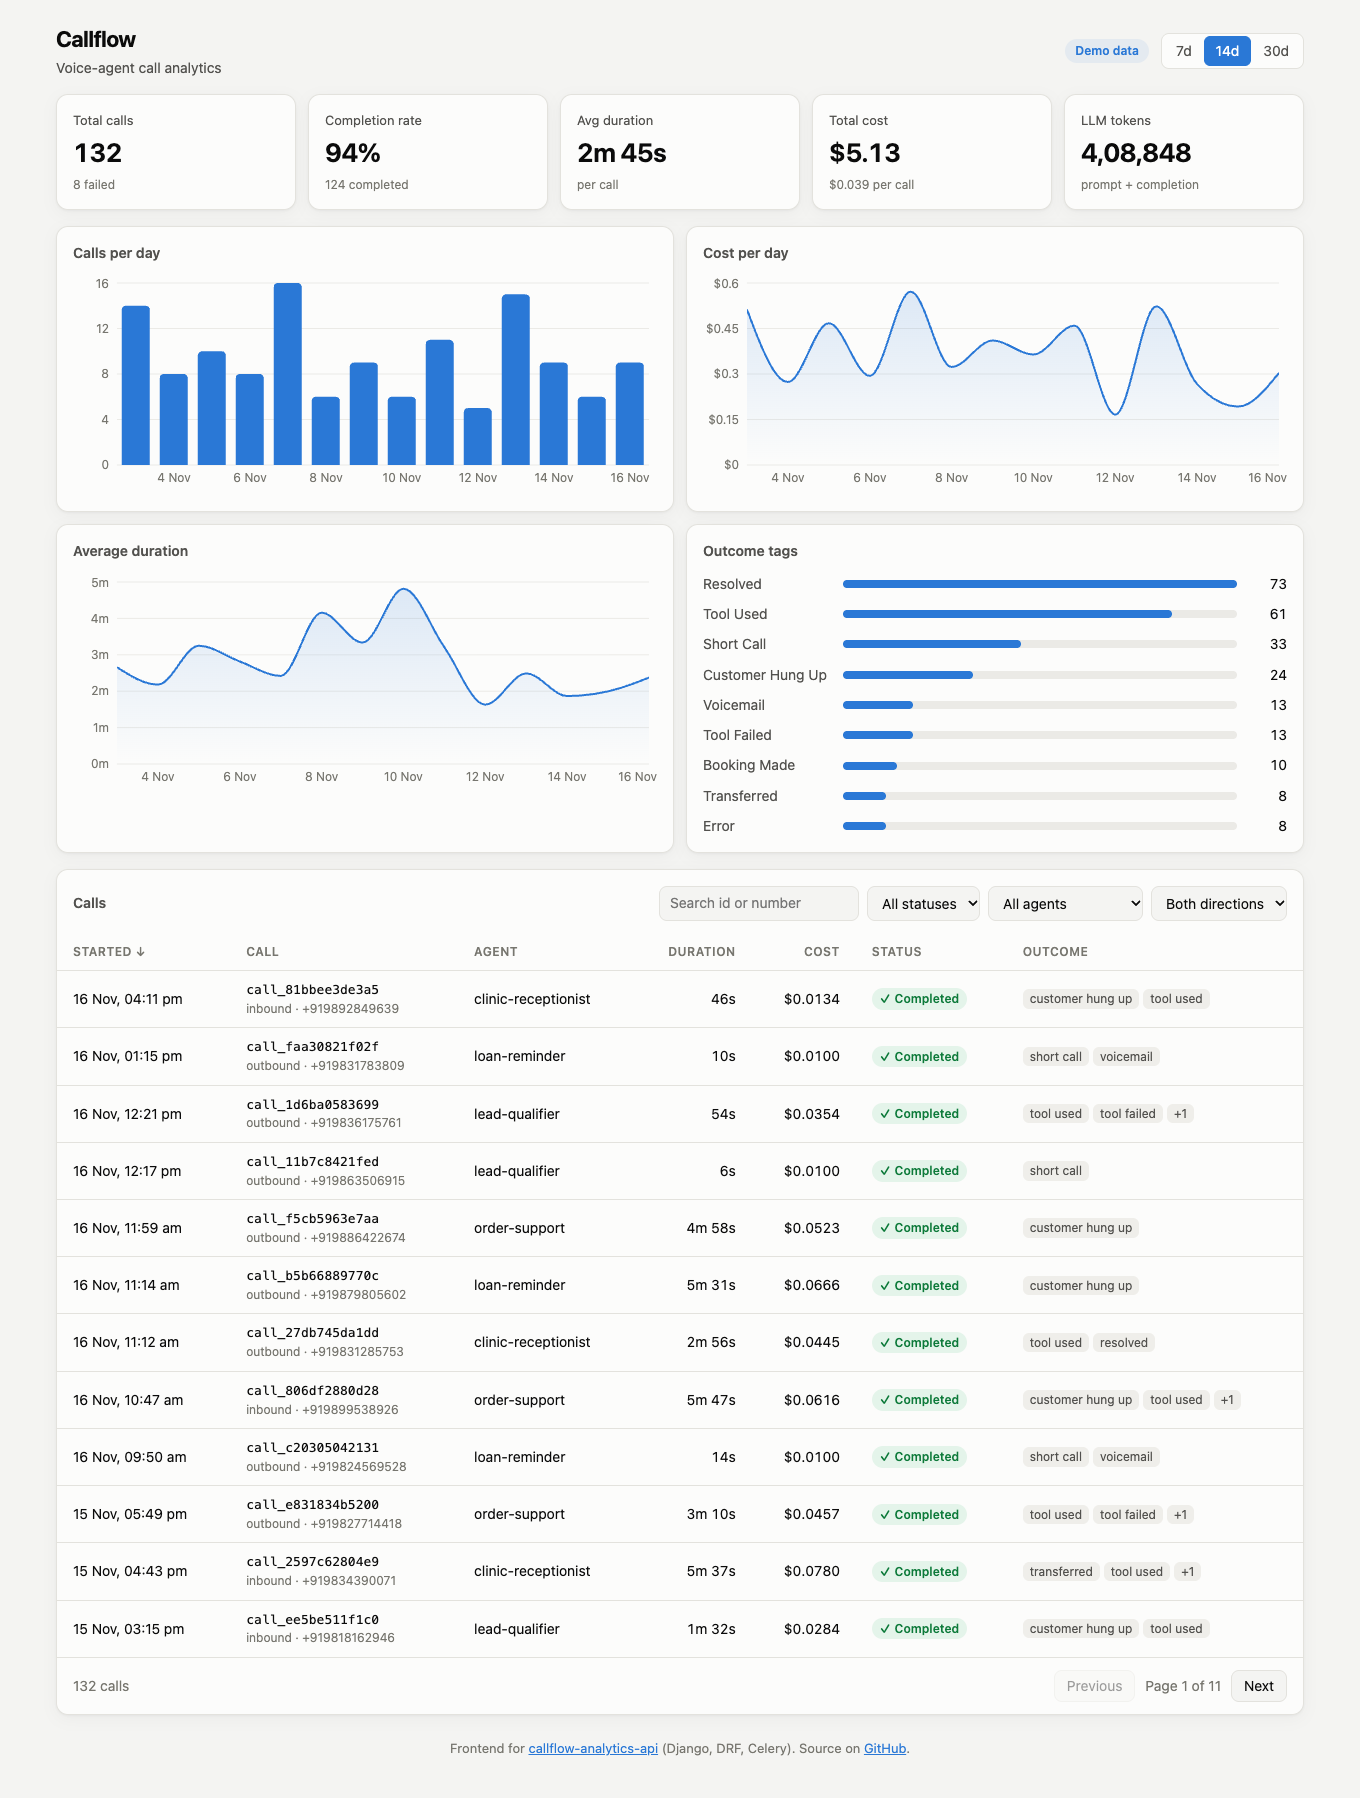
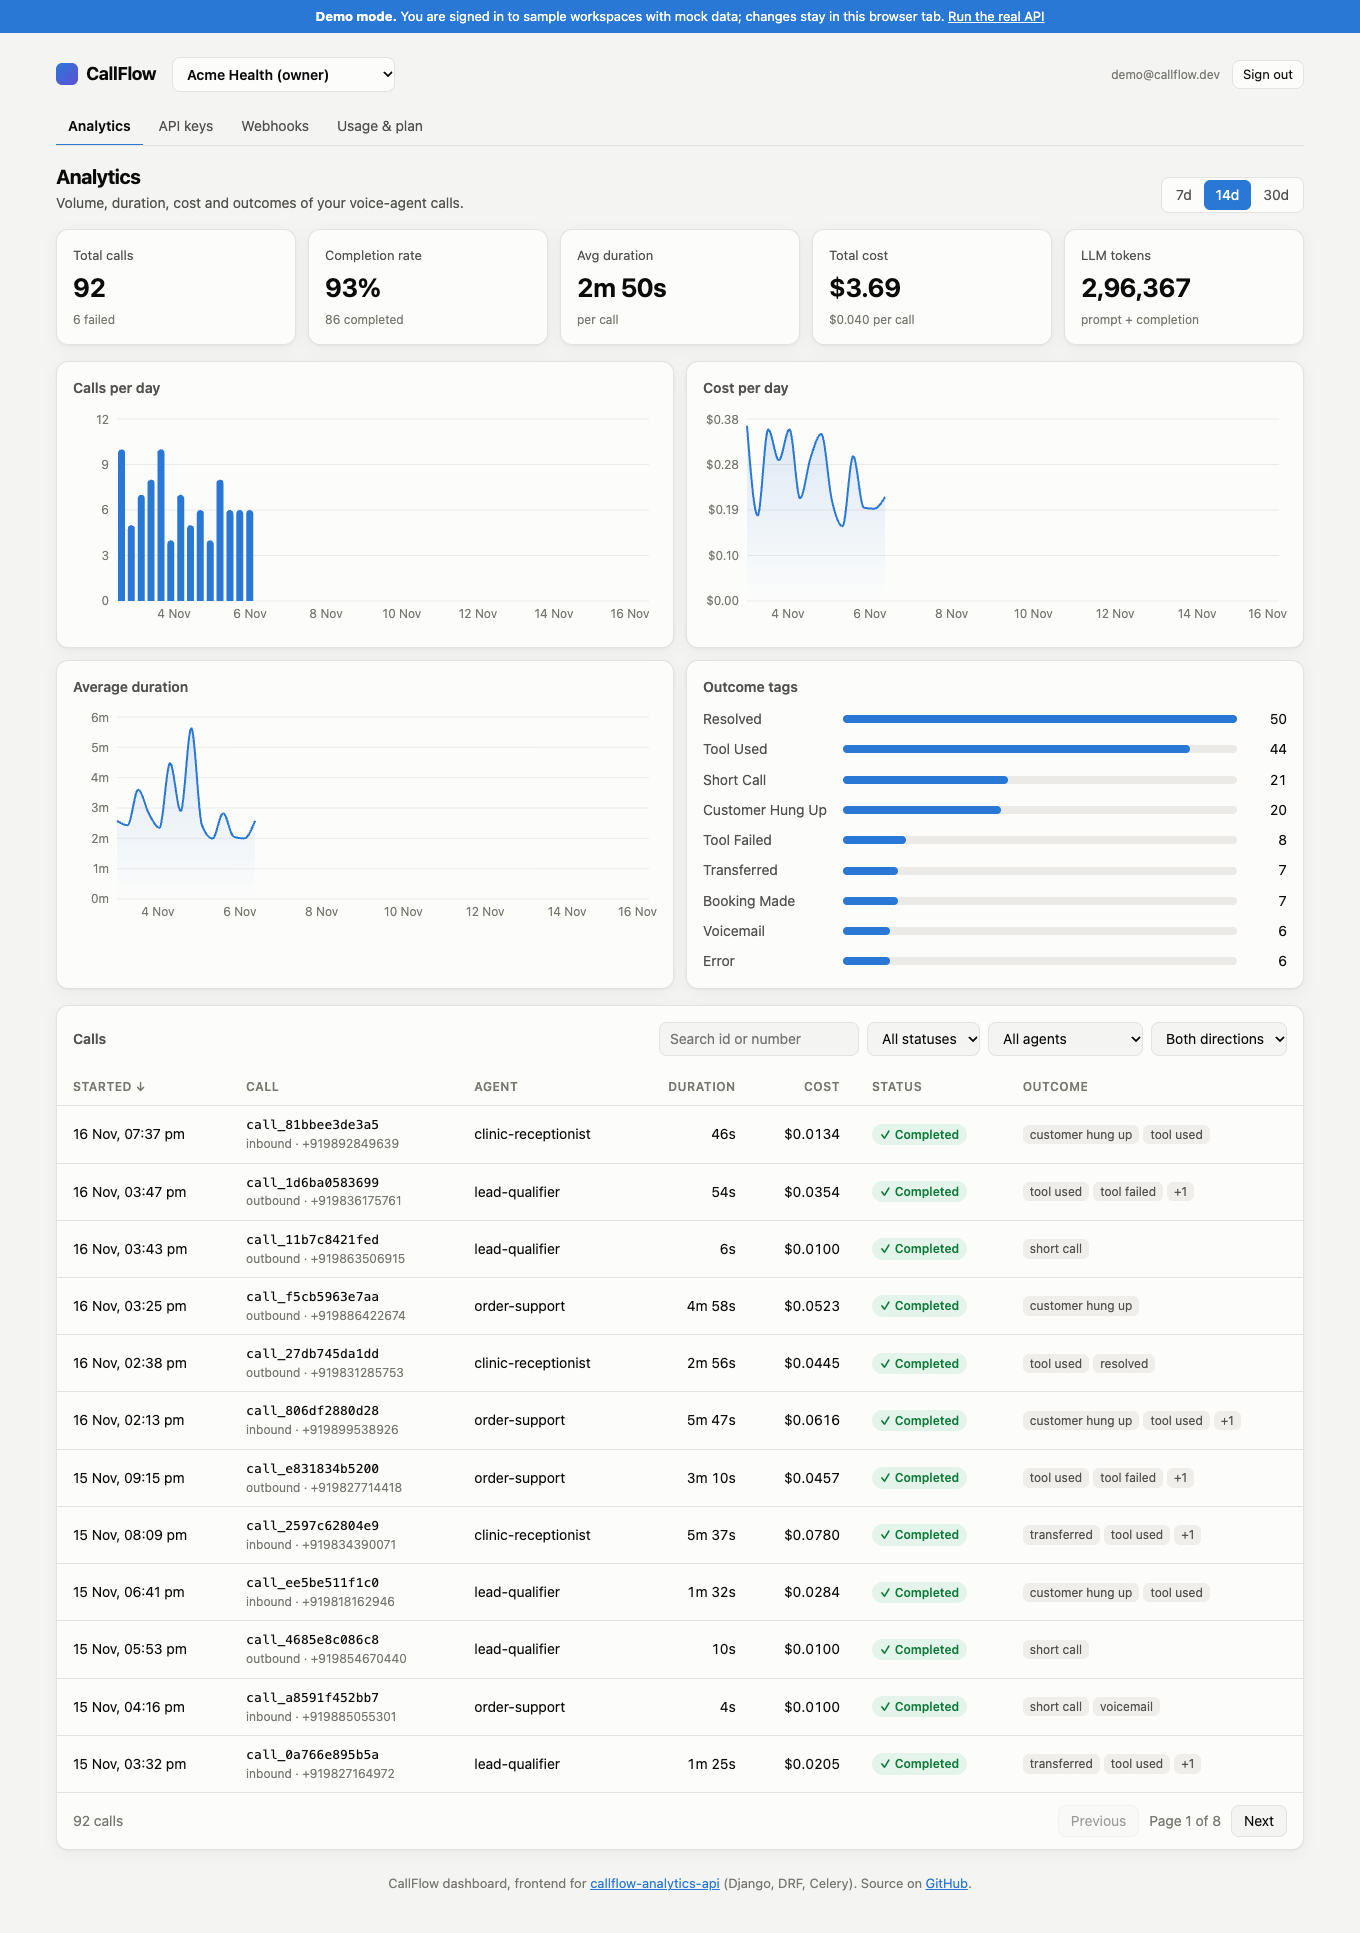
README as a product page, with fresh screenshots of every screen

diff --git a/README.md b/README.md
@@ -1,85 +1,106 @@
-# callflow-dashboard
+# CallFlow Dashboard
 
-[![Deploy](https://github.com/Vedansh-0611/callflow-dashboard/actions/workflows/deploy.yml/badge.svg)](https://github.com/Vedansh-0611/callflow-dashboard/actions/workflows/deploy.yml)
+[![Lint, build and deploy](https://github.com/Vedansh-0611/callflow-dashboard/actions/workflows/deploy.yml/badge.svg)](https://github.com/Vedansh-0611/callflow-dashboard/actions/workflows/deploy.yml)
 
 **Live demo: https://vedansh-0611.github.io/callflow-dashboard/**
 
-A React dashboard for AI voice-agent call analytics: KPI cards, calls / cost / duration per
-day, outcome tags, a filterable and sortable calls table, and a call detail drawer with the
-full event timeline (call started, transcript turns, tool calls, call ended).
+The web app for **CallFlow**, a multi-tenant call analytics service for AI voice agents. Teams
+sign in, switch between their organizations, watch call volume, cost and outcomes, manage the
+API keys their telephony provider uses, register webhook endpoints for `call.summarized`
+events, and keep an eye on usage against their plan.
 
-It is the frontend for **[callflow-analytics-api](https://github.com/Vedansh-0611/callflow-analytics-api)**,
-a Django + DRF + Celery service that ingests signed call webhooks and computes per-call cost.
-The live demo runs entirely on bundled mock data, so it needs no backend.
+The backend is **[callflow-analytics-api](https://github.com/Vedansh-0611/callflow-analytics-api)**
+(Django, DRF, Celery, PostgreSQL, Redis). The live demo runs in **demo mode**: no backend, a
+banner at the top, and an automatic sign-in to two sample organizations backed by an in-browser
+mock of the API.
 
-![Dashboard screenshot](docs/screenshot.png)
+![Analytics](docs/screenshot.png)
 
 <details>
-<summary>Call detail drawer (dark mode)</summary>
+<summary>API keys, webhooks, usage and plan, call drawer (dark mode)</summary>
 
+![API keys](docs/api-keys.png)
+![Webhooks](docs/webhooks.png)
+![Usage and plan](docs/billing.png)
 ![Call drawer](docs/call-drawer.png)
 
 </details>
 
-## Stack
+## Features
 
-React 18, Vite 5, Recharts, plain CSS (custom properties, light and dark themes, responsive
-down to phone width). No UI framework. Deployed to GitHub Pages with GitHub Actions.
+- **Sign in / sign up** with email and password against the API's JWT endpoints. The access
+  token is refreshed automatically (one shared refresh even when several requests expire at once).
+- **Org switcher** in the header. Every request carries `X-Organization`, and pages remount on a
+  switch so nothing from the previous organization stays on screen. New organizations can be
+  created from the same menu.
+- **Analytics:** KPI cards, calls / cost / duration per day, outcome tags, a filterable and
+  sortable calls table, and a call drawer with the full event timeline.
+- **API keys:** create a key and see it exactly once (with copy), revoke keys, see when each was
+  last used; reveal or rotate the inbound webhook signing secret; a ready-to-run signed `curl`.
+- **Webhooks:** add endpoints for `call.summarized` (signing secret shown once), pause or resume,
+  rotate secrets, send a test ping and read the delivery log with attempts and status codes.
+- **Usage & plan:** meters for calls and minutes this month, plan cards with limits, switching
+  plans through the API's billing provider, and usage history.
+- **Roles:** members see analytics and usage; owners and admins also manage keys, endpoints
+  and the plan. The UI explains the role instead of showing raw 403s.
+- Light and dark themes, responsive down to phone width, no UI framework.
 
-## Run locally
+## Demo mode vs real mode
+
+| | Demo mode (default, GitHub Pages) | Real mode |
+|---|---|---|
+| Turned on by | `VITE_API_URL` empty | `VITE_API_URL=https://your-api` |
+| Sign-in | automatic; any credentials work | email + password, JWT |
+| Data | bundled mock calls, split across two sample orgs | your organization's data |
+| Keys, endpoints, plan | kept in memory for the tab, same shapes and errors (including 402 limits) as the API | stored by the API |
 
 ```bash
 npm install
-npm run dev            # http://localhost:5173, uses the mock data
-```
+npm run dev                      # demo mode on http://localhost:5173
 
-### Use the real API
-
-Start [callflow-analytics-api](https://github.com/Vedansh-0611/callflow-analytics-api)
-(`make up` or `make run`, then `make seed`), then:
-
-```bash
-cp .env.example .env.local
-# set VITE_API_URL=http://localhost:8000   (and VITE_API_KEY if the API has API_KEY set)
-npm run dev
+# real mode, with the API running locally (make up && make seed in the API repo)
+echo "VITE_API_URL=http://localhost:8000" > .env.local
+npm run dev                      # sign in as demo@callflow.dev / callflow-demo
 ```
 
 The API already allows `http://localhost:5173` through `CORS_ALLOWED_ORIGINS`.
 
-## How it works
-
-- `src/api/client.js` is the single data layer. If `VITE_API_URL` is set it calls
-  `/api/calls/`, `/api/calls/<id>/` and `/api/stats/` on the real API. Otherwise it uses
-  `src/api/mockApi.js`.
-- `mockApi.js` implements the same filters, ordering, pagination and stats response shapes
-  in the browser, so the UI code does not know which one it is talking to. Mock timestamps
-  are shifted at load time so the newest call is always from the last hour.
-- The mock JSON is loaded with a dynamic `import()`, so it is a separate chunk and is not
-  downloaded at all when the dashboard points at the real API.
-- `scripts/generate-mock.mjs` regenerates `src/mock/calls.json` with a seeded PRNG
-  (`npm run mock`). It uses the same cost formula and outcome tag rules as the API.
-- `useAsync` is a small hook that loads data when its dependencies change and ignores
-  stale responses, so fast filter changes never show out-of-date rows.
+## How it is built
 
 ```
 src/
-  api/client.js        real API or mock, same interface
-  api/mockApi.js       in-browser mock of the API
-  components/          KpiCards, DailyChart, OutcomeTags, CallsTable, CallDrawer, StatusPill
-  format.js            number, money, duration and date helpers
-  useAsync.js          data loading hook
+  api/http.js          fetch wrapper: JWT + X-Organization headers, token refresh, error messages
+  api/session.js       tokens, user and selected org in localStorage
+  api/client.js        one function per endpoint; picks the real API or the mock
+  api/mockApi.js       in-browser mock of the API for demo mode
+  auth/AuthContext.jsx sign-in state, org switching, demo auto sign-in
+  pages/               Analytics, API keys, Webhooks, Usage & plan, sign-in / sign-up
+  components/          charts, tables, call drawer, usage meter, copy field, app shell
+  useHashRoute.js      #/billing style routing (works on GitHub Pages without rewrites)
+  useAsync.js          data loading hook that ignores stale responses
 ```
 
-## Deployment
+- **One data layer.** Pages call `client.js` and never know whether they talk to Django or the
+  mock. The mock mirrors the real filters, pagination, response shapes and error bodies.
+- **Tokens in localStorage.** Simple and fine for a dashboard that sends `Authorization` headers
+  (no cookies, so no CSRF). The trade-off is exposure to XSS; an httpOnly refresh cookie is the
+  stronger option if the app grows.
+- **The mock JSON is lazy-loaded**, so it is a separate chunk that real mode never downloads.
+  `npm run mock` regenerates it with a seeded PRNG using the API's cost and tag rules.
 
-`.github/workflows/deploy.yml` builds on every push to `main` and publishes `dist/` with
-`actions/deploy-pages`. Vite's `base` is set to `/callflow-dashboard/` for production builds
-because GitHub Pages serves project sites from that sub-path.
+## CI and deployment
 
-## Updating the screenshot
+`.github/workflows/deploy.yml` runs `npm run lint` (ESLint with React and hooks rules) and
+`npm run build` on every push and pull request, and publishes `dist/` to GitHub Pages from
+`main`. Vite's `base` is `/callflow-dashboard/` for production builds because Pages serves
+project sites from that sub-path.
 
-1. `npm run build && npm run preview`, or open the live demo.
-2. Use a browser window about 1360px wide and take a full-page screenshot
-   (Chrome DevTools: Cmd/Ctrl+Shift+P, then "Capture full size screenshot").
-3. Save it as `docs/screenshot.png`. For the drawer image, click any row first and save
-   `docs/call-drawer.png`.
+To point a deployed build at a real backend (for example the Render blueprint in the API repo),
+set `VITE_API_URL` at build time, e.g. as a repository variable passed to the build step.
+
+## Roadmap
+
+- Invite teammates and manage roles from the UI (API endpoints first)
+- Redeliver a failed webhook from the delivery log
+- Date-range picker and CSV export on the calls table
+- httpOnly cookie for the refresh token
